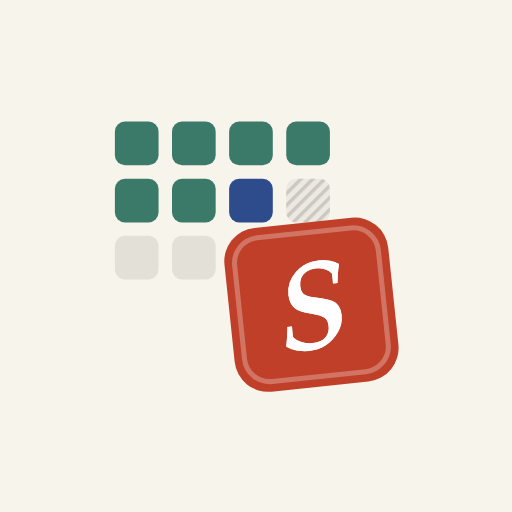
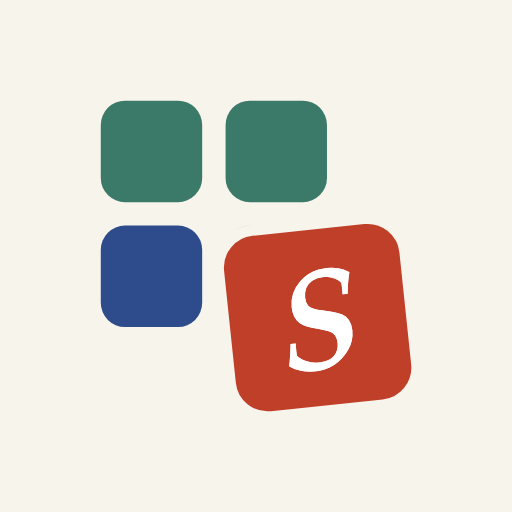
feat(web): 换新标志——四格进度加印章，标签页、侧栏、手机顶部、主屏幕统一 (#51)
- 旧标志只有朱红「S」，上次只换了标签页图标且和旧的几乎一样，看不出变化
- 新标志：纸底小方块，三格学完、一格正在学，右下角盖印章；16px 也认得出
- 去掉平台切换里表示「未登录」的空心小圈，看起来像个度数符号

Changed region(s): [[0.1875, 0.1875, 0.8125, 0.8125]]

diff --git a/web/static/studia.css b/web/static/studia.css
@@ -81,8 +81,7 @@ code { font: 12px var(--mono); padding: 1px 5px; border-radius: 4px; background:
 .side { display: flex; flex-direction: column; min-height: 0; background: var(--paper-2); border-right: 1px solid var(--line); }
 .side_top { position: relative; padding: 18px 14px 10px; }
 .brand { display: flex; align-items: center; gap: 9px; padding: 0 6px; height: 28px; }
-.seal { display: grid; place-items: center; width: 22px; height: 22px; border-radius: 5px; background: var(--seal); color: #fff;
-        font: italic 600 14px/1 var(--serif); box-shadow: inset 0 0 0 1.5px rgb(255 255 255 / .25); transform: rotate(-4deg); }
+.mark { display: block; flex: none; width: 24px; height: 24px; }
 .brand b { font: 600 18px/1 var(--serif); letter-spacing: .01em; }
 .icon_btn { display: grid; place-items: center; width: 28px; height: 28px; border-radius: 7px; color: var(--text-3); transition: background .15s, color .15s; }
 @media (hover: hover) { .icon_btn:hover { background: var(--hover); color: var(--text); } }
@@ -93,7 +92,6 @@ code { font: 12px var(--mono); padding: 1px 5px; border-radius: 4px; background:
 .plat_seg button[aria-selected="true"] { background: var(--card); color: var(--text); font-weight: 600; box-shadow: 0 0 0 1px var(--line), 0 1px 3px rgb(var(--ink) / .08); }
 .plat_seg i { position: absolute; top: 5px; right: 6px; width: 5px; height: 5px; border-radius: 50%; }
 .plat_seg i.busy { background: var(--indigo); animation: breathe 1.6s ease-in-out infinite; }
-.plat_seg i.out { box-shadow: inset 0 0 0 1px var(--text-4); }
 .who { flex: 1; min-width: 0; line-height: 1.25; }
 .who b { display: block; font-size: 13.5px; }
 .who small { color: var(--text-3); font-size: 11.5px; }
@@ -408,7 +406,7 @@ body.signed-out .app, body.signed-out .player { display: none; }
   background-size: 28px 28px; mask-image: radial-gradient(ellipse at 30% 60%, #000 20%, transparent 75%); -webkit-mask-image: radial-gradient(ellipse at 30% 60%, #000 20%, transparent 75%); }
 .auth_art > * { position: relative; }
 .auth .brand { padding: 0; height: auto; }
-.auth .brand .seal { width: 28px; height: 28px; font-size: 18px; border-radius: 6px; }
+.auth .brand .mark { width: 30px; height: 30px; }
 .auth .brand b { font-size: 24px; }
 .auth_pitch { margin-top: auto; max-width: 460px; }
 .auth_pitch h1 { margin: 0; font: 600 34px/1.3 var(--sans); letter-spacing: -.01em; }
@@ -501,7 +499,7 @@ body.signed-out .app, body.signed-out .player { display: none; }
 body.pill-open .pill_lines i:first-child { top: 3.5px; transform: rotate(14deg); }
 body.pill-open .pill_lines i:last-child { top: 3.5px; transform: rotate(-14deg); }
 .pill_mark { display: grid; place-items: center; width: 40px; height: 40px; }
-.pill_mark .seal { width: 26px; height: 26px; font-size: 16px; }
+.pill_mark .mark { width: 28px; height: 28px; }
 .pill_cta_wrap { justify-self: end; }
 .pill_cta { display: inline-flex; align-items: center; gap: 10px; height: 38px; padding: 0 14px 0 16px; border-radius: 999px; box-shadow: inset 0 0 0 1px rgb(255 255 255 / .16); font-size: 12.5px; letter-spacing: .04em; white-space: nowrap; }
 .pill_cta:active { background: rgb(255 255 255 / .1); }
@@ -513,7 +511,6 @@ body.pill-open .pill_panel { max-height: calc(100dvh - 100px - env(safe-area-ins
 .pill_panel .plat_seg { display: inline-flex; margin: 0 0 14px; background: rgb(255 255 255 / .07); box-shadow: none; }
 .pill_panel .plat_seg button { flex: none; height: 32px; padding: 0 16px; color: var(--pill-dim); }
 .pill_panel .plat_seg button[aria-selected="true"] { background: rgb(255 255 255 / .14); color: #f3eee2; box-shadow: none; }
-.pill_panel .plat_seg i.out { box-shadow: inset 0 0 0 1px var(--pill-dim); }
 .pill_nav { display: flex; flex-direction: column; align-items: center; gap: 2px; padding: 0 20px; }
 .pill_nav > * { opacity: 0; transform: translateY(14px); transition: opacity .6s var(--ease-out), transform .6s var(--ease-out); }
 body.pill-open .pill_nav > * { opacity: 1; transform: none; }

diff --git a/web/static/studia.js b/web/static/studia.js
@@ -180,7 +180,7 @@ function renderSidebar() {
     `<button class="nav_item ${cls}" data-go="${hash}" aria-current="${view === hash}">${icon}${rolling(label)}${extra}</button>`;
   const platforms = `<div class="plat_seg" role="tablist">${state.platforms.map((x, i) =>
     `<button role="tab" aria-selected="${x.id === p.id}" data-switch="${x.id}" title="${esc(platformStatus(x))} · ⌘${i + 1}">${esc(x.short)}${
-      state.jobs.some((j) => j.platform === x.id) ? '<i class="busy"></i>' : x.logged_in ? "" : '<i class="out"></i>'}</button>`).join("")}</div>`;
+      state.jobs.some((j) => j.platform === x.id) ? '<i class="busy"></i>' : ""}</button>`).join("")}</div>`;
   patch($(".switcher_wrap"), platforms);
 
   const courses = [];
@@ -1275,7 +1275,7 @@ function showAuth(mode = "login") {
     : `<input name="${name}" ${attrs}>`}</label>`;
   box.innerHTML = `
     <section class="auth_art" aria-hidden="true">
-      <div class="brand"><span class="seal">S</span><b>Studia</b></div>
+      <div class="brand"><img class="mark" src="icon.svg" alt=""><b>Studia</b></div>
       <div class="auth_pitch"><h1>课程、视频和作业，<br>摊在一张书桌上。</h1>
         <p>自动学习还没学完的单元，AI 帮你作答试卷；每一格都看得见进度。</p></div>
       <div class="auth_grid">${authGrid()}</div>

diff --git a/web/static/index.html b/web/static/index.html
@@ -18,7 +18,7 @@
   <header class="pillnav" aria-label="导航">
     <div class="pill_bar">
       <button class="pill_toggle" data-pill aria-expanded="false"><span class="pill_lines"><i></i><i></i></span><span class="roll"><span class="roll_in" data-label="菜单">菜单</span></span></button>
-      <button class="pill_mark" data-go="#/" aria-label="Studia"><span class="seal">S</span></button>
+      <button class="pill_mark" data-go="#/" aria-label="Studia"><img class="mark" src="icon.svg" alt=""></button>
       <span class="pill_cta_wrap"></span>
     </div>
     <div class="pill_panel"></div>
@@ -26,7 +26,7 @@
   <div class="app">
     <aside class="side" aria-label="导航">
       <div class="side_top">
-        <div class="brand"><span class="seal">S</span><b>Studia</b><span class="grow"></span>
+        <div class="brand"><img class="mark" src="icon.svg" alt=""><b>Studia</b><span class="grow"></span>
           <button class="icon_btn" data-find title="查找 ⌘K" aria-label="查找"><svg width="15" height="15" viewBox="0 0 16 16" fill="none" stroke="currentColor" stroke-width="1.6"><circle cx="7" cy="7" r="5"/><path d="m11 11 3.5 3.5"/></svg></button></div>
         <div class="switcher_wrap"></div>
       </div>
